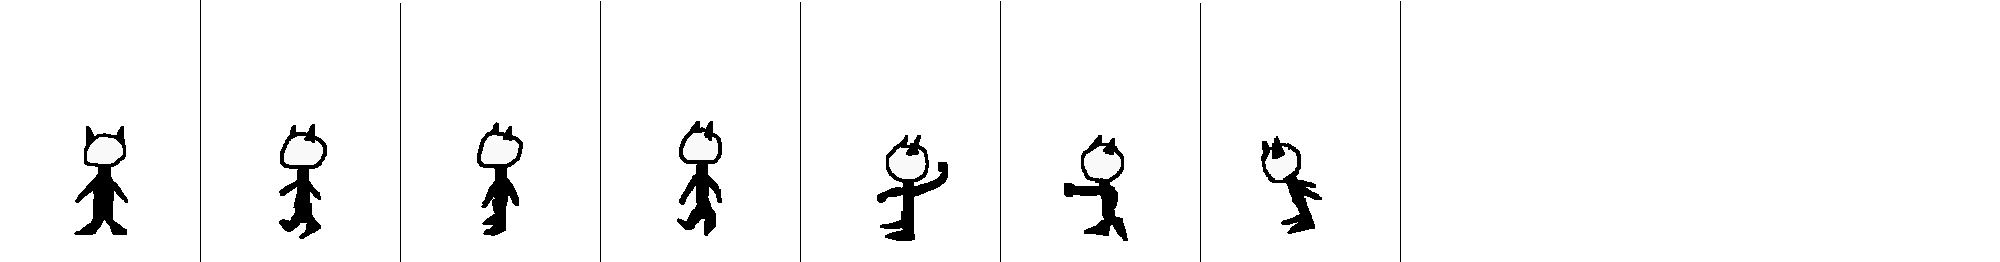
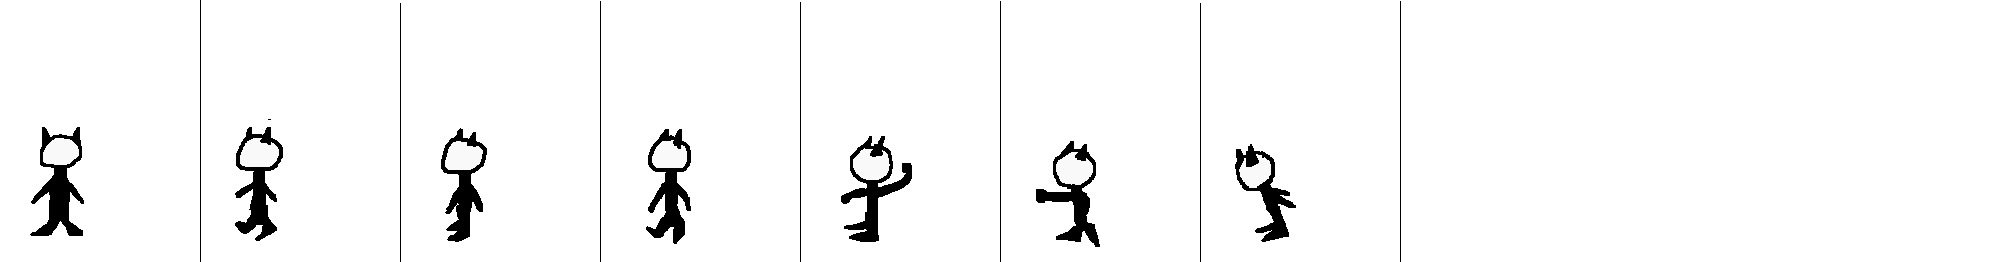
Add files via upload

diff --git a/Monster.cpp b/Monster.cpp
@@ -24,14 +24,14 @@ void Monster::move(int knight_mPosX, SDL_Rect SpriteClips[])
     if(knight_mPosX + 20 < mPosX)
     {
         mTexture = left;
-        if(mPosX - knight_mPosX <= 300 && mPosX - knight_mPosX >= 90)
+        if(mPosX - knight_mPosX <= 300 && mPosX - knight_mPosX >= 70)
         {
             mPosX--;
             currentClip = &SpriteClips[frame/10];
             frame++;
             if(frame/10 >= 4) frame = 0;
         }
-        if(mPosX - knight_mPosX < 90)
+        if(mPosX - knight_mPosX < 70)
         {
             currentClip = &SpriteClips[fight_scene/50];
             fight_scene++;
@@ -41,14 +41,14 @@ void Monster::move(int knight_mPosX, SDL_Rect SpriteClips[])
     else
     {
         mTexture = right;
-        if(knight_mPosX - mPosX >= 10 && knight_mPosX - mPosX <= 400)
+        if(knight_mPosX - mPosX >= 90 && knight_mPosX - mPosX <= 400)
         {
             mPosX++;
             currentClip = &SpriteClips[frame/10];
             frame++;
             if(frame/10 >= 4) frame = 0;
         }
-        if(knight_mPosX - mPosX < 10)
+        if(knight_mPosX - mPosX < 90)
         {
             currentClip = &SpriteClips[fight_scene/50];
             fight_scene++;
@@ -61,7 +61,16 @@ void Monster::move(int knight_mPosX, SDL_Rect SpriteClips[])
 void Monster::render(int camX, int camY, SDL_Renderer* renderer)
 {
     health.x = mPosX - health.w/2 + currentClip->w/2 - camX;
-    health.y = mPosY + 120;
+    if(path_right == "bigguy2.png" && path_left == "bigguy1.png")
+    {
+        health.y = mPosY + 40;
+    }
+    else if(path_right == "monster2.png" && path_left == "monster1.png")
+    {
+        if(mTexture == left) health.x -= 35;
+        else if(mTexture == right) health.x += 20;
+        health.y = mPosY + 120;
+    }
     SDL_SetRenderDrawColor(renderer, 255, 0, 0, 255);
     SDL_RenderFillRect(renderer, &health);
     SDL_SetRenderDrawColor(renderer, 255, 255, 255, 255);

diff --git a/Knight.cpp b/Knight.cpp
@@ -185,14 +185,14 @@ void Knight::being_hit_status(Monster &monster, SDL_Rect SpriteClips[])
 {
     if(mPosX < monster.mPosX)
     {
-        if(monster.mPosX - mPosX > 0 && monster.mPosX - mPosX < 90 && monster.fight_scene == 250)
+        if(monster.mPosX - mPosX > 0 && monster.mPosX - mPosX < 130 && monster.fight_scene == 250)
         {
             if(health.w != 0 && monster.currentClip != &SpriteClips[7]) health.w-=5;
         }
     }
     else
     {
-        if(mPosX - monster.mPosX > 0 && mPosX - monster.mPosX < 50 && monster.fight_scene == 250)
+        if(mPosX - monster.mPosX > 0 && mPosX - monster.mPosX < 90 && monster.fight_scene == 250)
         {
             if(health.w != 0 && monster.currentClip != &SpriteClips[7]) health.w-=5;
         }
@@ -209,12 +209,12 @@ void Knight::render(int camX, int camY, SDL_Renderer* renderer, SDL_Rect SpriteC
 {
     if(mTexture == right)
     {
-        health.x = mPosX - health.w/2 + currentClip->w/2 + 45 - camX;
+        health.x = mPosX - health.w/2 + currentClip->w/2 - 20 - camX;
         if(currentClip == &SpriteClips[8]) health.x -= 50;
     }
     else
     {
-        health.x = mPosX - health.w/2 + currentClip->w/2 + 20 - camX;
+        health.x = mPosX - health.w/2 + currentClip->w/2 - camX;
         if(currentClip == &SpriteClips[8]) health.x -= 50;
     }
 

diff --git a/main.cpp b/main.cpp
@@ -10,7 +10,7 @@ using namespace std;
 const int LEVEL_WIDTH = 2000;
 const int LEVEL_HEIGHT = 400;
 
-const int SCREEN_WIDTH = 640;
+const int SCREEN_WIDTH = 1000;
 const int SCREEN_HEIGHT = 480;
 
 const int NUMBERS_OF_MONSTERS = 4;
@@ -32,7 +32,7 @@ int main(int argc, char* argv[])
     knight.render(0, 0, renderer, SpriteCLips);
 
     Monster monster[4];
-    for(int i=0; i<=3; i++)
+    for(int i=0; i<=1; i++)
     {
         monster[i].path_left = "bigguy1.png";
         monster[i].path_right = "bigguy2.png";
@@ -40,9 +40,19 @@ int main(int argc, char* argv[])
         monster[i].currentClip = &SpriteCLips[0];
         monster[i].render(0, 0, renderer);
     }
-    monster[1].mPosX = 800;
-    //monster[2].mPosX = 700;
-    //monster[3].mPosX = 900;
+
+    for(int i=2; i<=3; i++)
+    {
+        monster[i].path_left = "monster1.png";
+        monster[i].path_right = "monster2.png";
+        monster[i].loadtexture(renderer);
+        monster[i].currentClip = &SpriteCLips[0];
+        monster[i].render(0, 0, renderer);
+    }
+    monster[0].mPosX = 1600;
+    monster[1].mPosX = 1500;
+    monster[2].mPosX = 600;
+    monster[3].mPosX = 1900;
 
     bool quit = false;
     SDL_Event e;

diff --git a/Boss.h b/Boss.h
@@ -1,5 +1,5 @@
-#ifndef MONSTER__H_
-#define MONSTER__H_
+#ifndef BOSS__H_
+#define BOSS__H_
 
 #include<iostream>
 #include "Knight.h"
@@ -7,17 +7,18 @@
 using namespace std;
 
 class Knight;
-class Monster
+
+class Boss
 {
     public:
         SDL_Texture* right;
         SDL_Texture* left;
         SDL_Texture* mTexture;
         SDL_Rect* currentClip;
-        SDL_Rect health = {0, 0, 50, 3};
+        SDL_Rect health = {0, 0, 100, 3};
 
-        int frame = 0, fight_scene = 200;
-        int mPosX, mPosY = 190;
+        int frame = 0, fight_scene;
+        int mPosX  = 1000, mPosY = 190;
         string path_right, path_left;
 
         void loadtexture(SDL_Renderer* renderer);

diff --git a/Boss.cpp b/Boss.cpp
@@ -1,0 +1,6 @@
+#include<iostream>
+#include<SDL.h>
+#include<SDL_image.h>
+
+#include "Boss.h"
+
